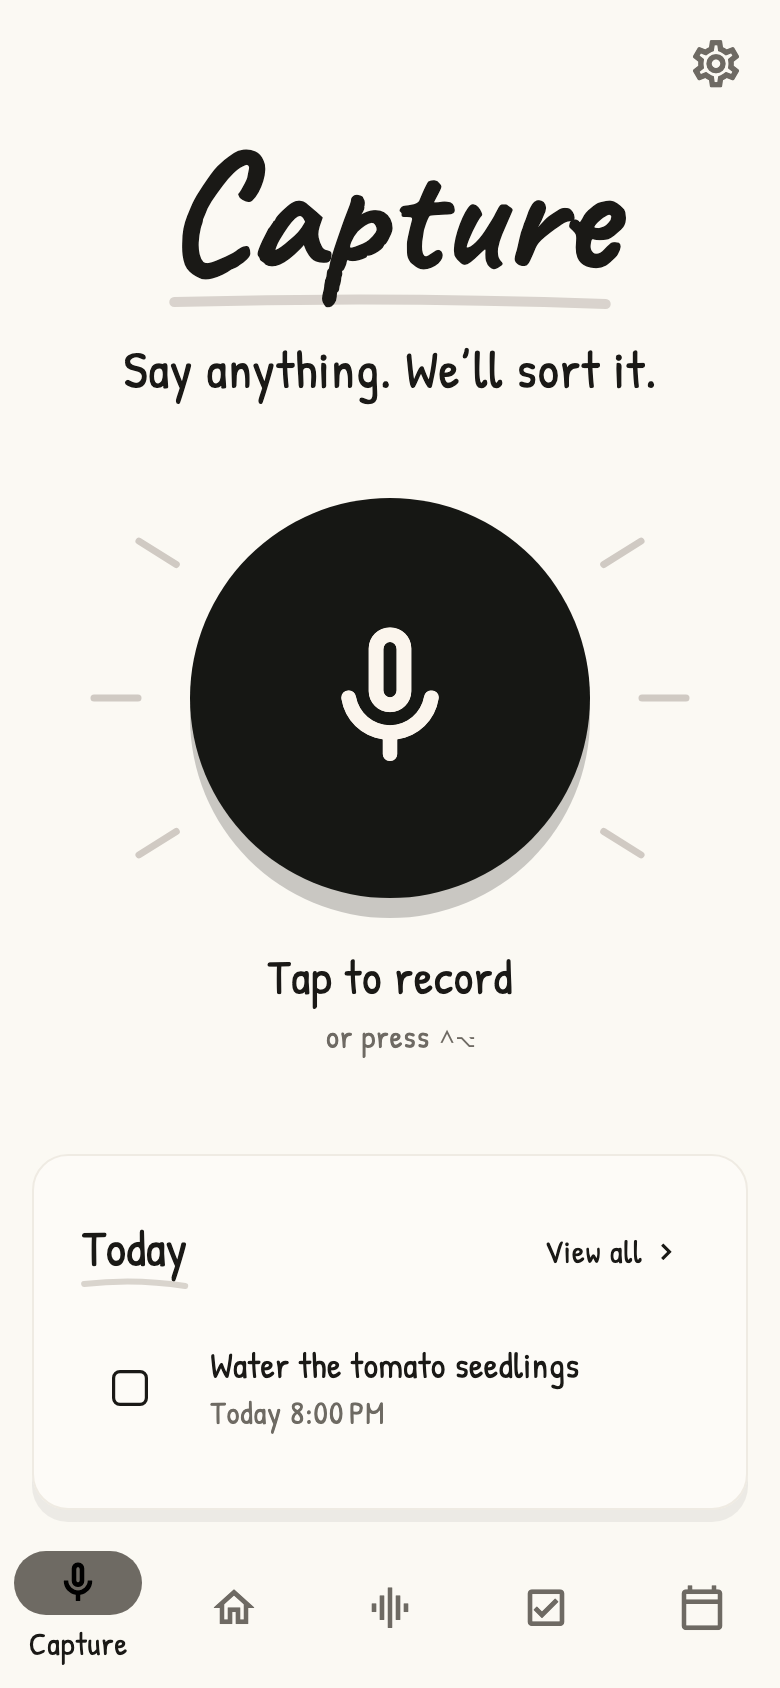
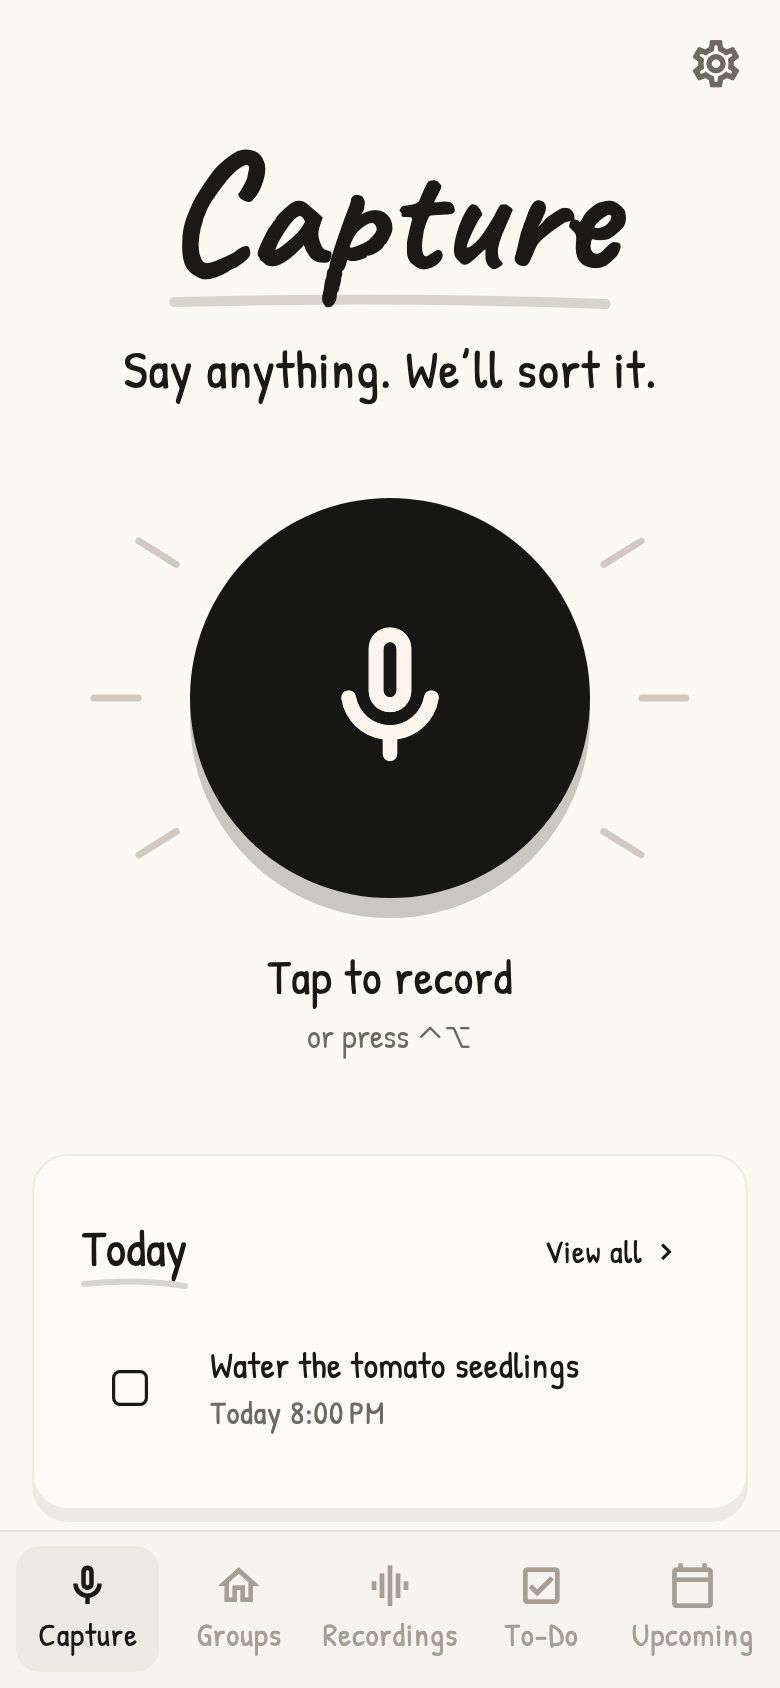
Replace the Material bottom bar with a labelled paper bar and re-render the narrow-window shots
The screenshot render now loads the Material icon font, and the ⌃⌥ hint
is painted in the macOS system font instead of Apple Symbols.

diff --git a/lib/features/shell/presentation/widgets/bottom_nav_bar.dart b/lib/features/shell/presentation/widgets/bottom_nav_bar.dart
@@ -1,7 +1,11 @@
+import 'package:capture/core/extensions/extensions.dart';
+import 'package:capture/core/theme/spacing.dart';
 import 'package:capture/features/shell/presentation/models/nav_destination.dart';
+import 'package:capture/features/shell/presentation/widgets/bottom_nav_item.dart';
 import 'package:flutter/material.dart';
 
-/// The shell's destinations along the bottom of a phone-sized window.
+/// The shell's destinations along the bottom of a narrow window, on the
+/// sidebar's paper with every label shown.
 class BottomNavBar extends StatelessWidget {
   const BottomNavBar({
     required this.destinations,
@@ -16,20 +20,32 @@ class BottomNavBar extends StatelessWidget {
   final int selected;
   final ValueChanged<NavDestination> onSelected;
 
-  void _select(int index) {
-    if (destinations.elementAtOrNull(index) case final NavDestination destination) {
-      onSelected(destination);
-    }
-  }
-
   @override
-  Widget build(BuildContext context) => NavigationBar(
-    selectedIndex: selected,
-    labelBehavior: .onlyShowSelected,
-    onDestinationSelected: _select,
-    destinations: [
-      for (final NavDestination(:key, :icon, :label) in destinations)
-        NavigationDestination(key: ValueKey(key), icon: Icon(icon), label: label),
-    ],
+  Widget build(BuildContext context) => DecoratedBox(
+    decoration: BoxDecoration(
+      color: context.paper.sidebar,
+      border: Border(top: .new(color: context.paper.line)),
+    ),
+    child: SafeArea(
+      top: false,
+      child: Padding(
+        padding: const EdgeInsets.all(Spacing.xs),
+        child: Row(
+          spacing: Spacing.xxs,
+          children: [
+            for (final (index, destination) in destinations.indexed)
+              Expanded(
+                child: BottomNavItem(
+                  key: ValueKey(destination.key),
+                  icon: destination.icon,
+                  label: destination.label,
+                  selected: index == selected,
+                  onTap: () => onSelected(destination),
+                ),
+              ),
+          ],
+        ),
+      ),
+    ),
   );
 }

diff --git a/lib/features/shell/presentation/widgets/bottom_nav_item.dart b/lib/features/shell/presentation/widgets/bottom_nav_item.dart
@@ -1,0 +1,55 @@
+import 'package:capture/core/extensions/extensions.dart';
+import 'package:capture/core/theme/radii.dart';
+import 'package:capture/core/theme/sizes.dart';
+import 'package:capture/core/theme/spacing.dart';
+import 'package:capture/core/widgets/atoms/tap_surface.dart';
+import 'package:flutter/material.dart';
+
+/// One bottom-bar destination: icon over its label, highlighted like the
+/// selected sidebar item.
+class BottomNavItem extends StatelessWidget {
+  const BottomNavItem({
+    required this.icon,
+    required this.label,
+    required this.selected,
+    required this.onTap,
+    super.key,
+  });
+
+  final IconData icon;
+  final String label;
+  final bool selected;
+  final VoidCallback onTap;
+
+  @override
+  Widget build(BuildContext context) {
+    final ink = selected ? context.colors.onSurface : context.paper.faint;
+    return Semantics(
+      button: true,
+      selected: selected,
+      child: TapSurface(
+        color: selected ? context.paper.selected : Colors.transparent,
+        borderRadius: Radii.rounded12,
+        onTap: onTap,
+        child: Padding(
+          padding: const EdgeInsets.symmetric(vertical: Spacing.xs),
+          child: Column(
+            mainAxisSize: .min,
+            spacing: Spacing.hair,
+            children: [
+              Icon(icon, size: IconSizes.s24, color: ink),
+              FittedBox(
+                fit: .scaleDown,
+                child: Text(
+                  label,
+                  maxLines: 1,
+                  style: context.textTheme.labelMedium?.copyWith(color: ink),
+                ),
+              ),
+            ],
+          ),
+        ),
+      ),
+    );
+  }
+}

diff --git a/README.md b/README.md
@@ -63,12 +63,12 @@ Then, once, in the app:
 | Groups | Name and describe your groups. Jev uses the descriptions to file things. |
 | Shortcut | **Settings → Record shortcut**, press the keys, then **Save shortcut**. |
 
-Works at any window size, from phone width up to a 4K screen:
+Narrow the window and the sidebar becomes a bottom bar. On large screens the content stays centred.
 
 <p align="center">
-  <img src="docs/screenshots/phone-home.png" alt="Home at phone width" width="240">
+  <img src="docs/screenshots/phone-home.png" alt="Capture in a narrow window, with the bottom bar" width="240">
   &nbsp;
-  <img src="docs/screenshots/phone-upcoming.png" alt="Upcoming at phone width" width="240">
+  <img src="docs/screenshots/phone-upcoming.png" alt="Upcoming in a narrow window" width="240">
 </p>
 
 ## Privacy
